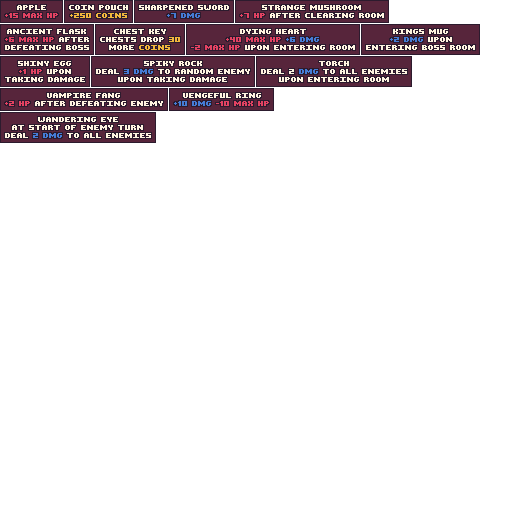
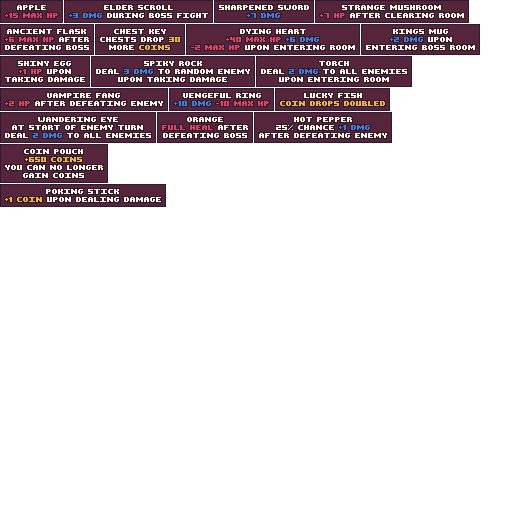
nov 30

Changed region(s): [[0.2812, 0.1562, 0.7812, 0.2812], [0.125, 0.0, 0.9375, 0.0625], [0.0, 0.2812, 0.3438, 0.4062]]

diff --git a/Assets/Scripts/Player/PlayerWallet.cs b/Assets/Scripts/Player/PlayerWallet.cs
@@ -5,12 +5,17 @@ public class PlayerWallet : MonoBehaviour
 {
     public int money;
 
+    // Variables
+    [HideInInspector] public int extraCoins; // When picking up coins, also add extracoins
+
     // Components
     [SerializeField] Counter counter;
     ScaleAnimator anim;
 
     void Start()
     {
+        extraCoins = 0;
+
         anim = counter.transform.parent.GetComponent<ScaleAnimator>();
         UpdateCounter();
     }
@@ -23,8 +28,11 @@ public class PlayerWallet : MonoBehaviour
             ShopManager.instance.ReloadPrices();
     }
 
-    public void AddMoney(int value)
+    public void AddMoney(int value, int count = 1)
     {
+        value += extraCoins * count;
+        if (value <= 0)
+            return;
         money += value;
         UpdateCounter();
         anim.SetScale(new Vector2(1.5f, 1.5f));

diff --git a/Assets/Scripts/Artifacts/A_HotPepper.cs b/Assets/Scripts/Artifacts/A_HotPepper.cs
@@ -1,0 +1,21 @@
+using benjohnson;
+using UnityEngine;
+
+[CreateAssetMenu(menuName = "Artifacts/Hot Pepper")]
+public class A_HotPepper : A_Base
+{
+    [Range(0f, 1f)] public float probability;
+
+    public int damageIncrease;
+
+    public override void OnKillEnemy()
+    {
+        bool passed = Utilities.TestProbability(probability);
+        if (passed)
+        {
+            triggered = true;
+
+            Player.instance.Damage.IncreaseDamage(damageIncrease);
+        }
+    }
+}

diff --git a/Assets/Scripts/Artifacts/ArtifactManager.cs b/Assets/Scripts/Artifacts/ArtifactManager.cs
@@ -8,8 +8,9 @@ public class ArtifactManager : Singleton<ArtifactManager>
     List<Artifact> artifacts;
 
     [SerializeField] List<A_Base> startingArtifacts = new List<A_Base>();
-
     public List<A_Base> undiscoveredArtifacts;
+
+    List<Artifact> queue;
 
     /// <summary>
     /// Returns a random set of artifacts from undiscoveredArtifacts list

diff --git a/Assets/Scripts/Utilities/Utilities.cs b/Assets/Scripts/Utilities/Utilities.cs
@@ -1,7 +1,16 @@
+using UnityEngine;
+
 namespace benjohnson
 {
     public static class Utilities
     {
+        public static bool TestProbability(float probability)
+        {
+            probability = Mathf.Clamp01(probability);
 
+            float randomValue = Random.value;
+
+            return randomValue < probability;
+        }
     }
 }

diff --git a/Assets/Scripts/Components/FloatingAnimator.cs b/Assets/Scripts/Components/FloatingAnimator.cs
@@ -13,7 +13,7 @@ public class FloatingAnimator : MonoBehaviour
     void Start()
     {
         originalPosition = transform.localPosition;
-        elapsed += Random.Range(0.0f, 1.0f);
+        elapsed += Random.Range(0.0f, 10.0f);
     }
 
     private void Update()

diff --git a/Assets/Scripts/Artifacts/A_PokingStick.cs b/Assets/Scripts/Artifacts/A_PokingStick.cs
@@ -1,0 +1,12 @@
+using UnityEngine;
+
+[CreateAssetMenu(menuName = "Artifacts/Poking Stick")]
+public class A_PokingStick : A_Base
+{
+    public int coins;
+
+    public override void OnDealDamage()
+    {
+        Player.instance.Wallet.AddMoney(coins);
+    }
+}

diff --git a/Assets/Scripts/Artifacts/A_CoinPouch.cs b/Assets/Scripts/Artifacts/A_CoinPouch.cs
@@ -9,6 +9,7 @@ public class A_CoinPouch : A_Base
     {
         triggered = true;
 
-        FindObjectOfType<CoinSpawner>().CreateCoins(coins);
+        Player.instance.Wallet.AddMoney(coins, coins);
+        Player.instance.Wallet.extraCoins = -9999;
     }
 }

diff --git a/Assets/Scripts/Artifacts/A_LuckyFish.cs b/Assets/Scripts/Artifacts/A_LuckyFish.cs
@@ -1,0 +1,12 @@
+using UnityEngine;
+
+[CreateAssetMenu(menuName = "Artifacts/Lucky Fish")]
+public class A_LuckyFish : A_Base
+{
+    public override void OnPickup()
+    {
+        triggered = true;
+
+        Player.instance.Wallet.extraCoins++;
+    }
+}

diff --git a/Assets/Scripts/Artifacts/A_ChestKey.cs b/Assets/Scripts/Artifacts/A_ChestKey.cs
@@ -10,6 +10,6 @@ public class A_ChestKey : A_Base
     {
         triggered = true;
 
-        FindObjectOfType<CoinSpawner>().CreateCoins(numberOfCoins);
+        Player.instance.Wallet.AddMoney(numberOfCoins, numberOfCoins);
     }
 }
